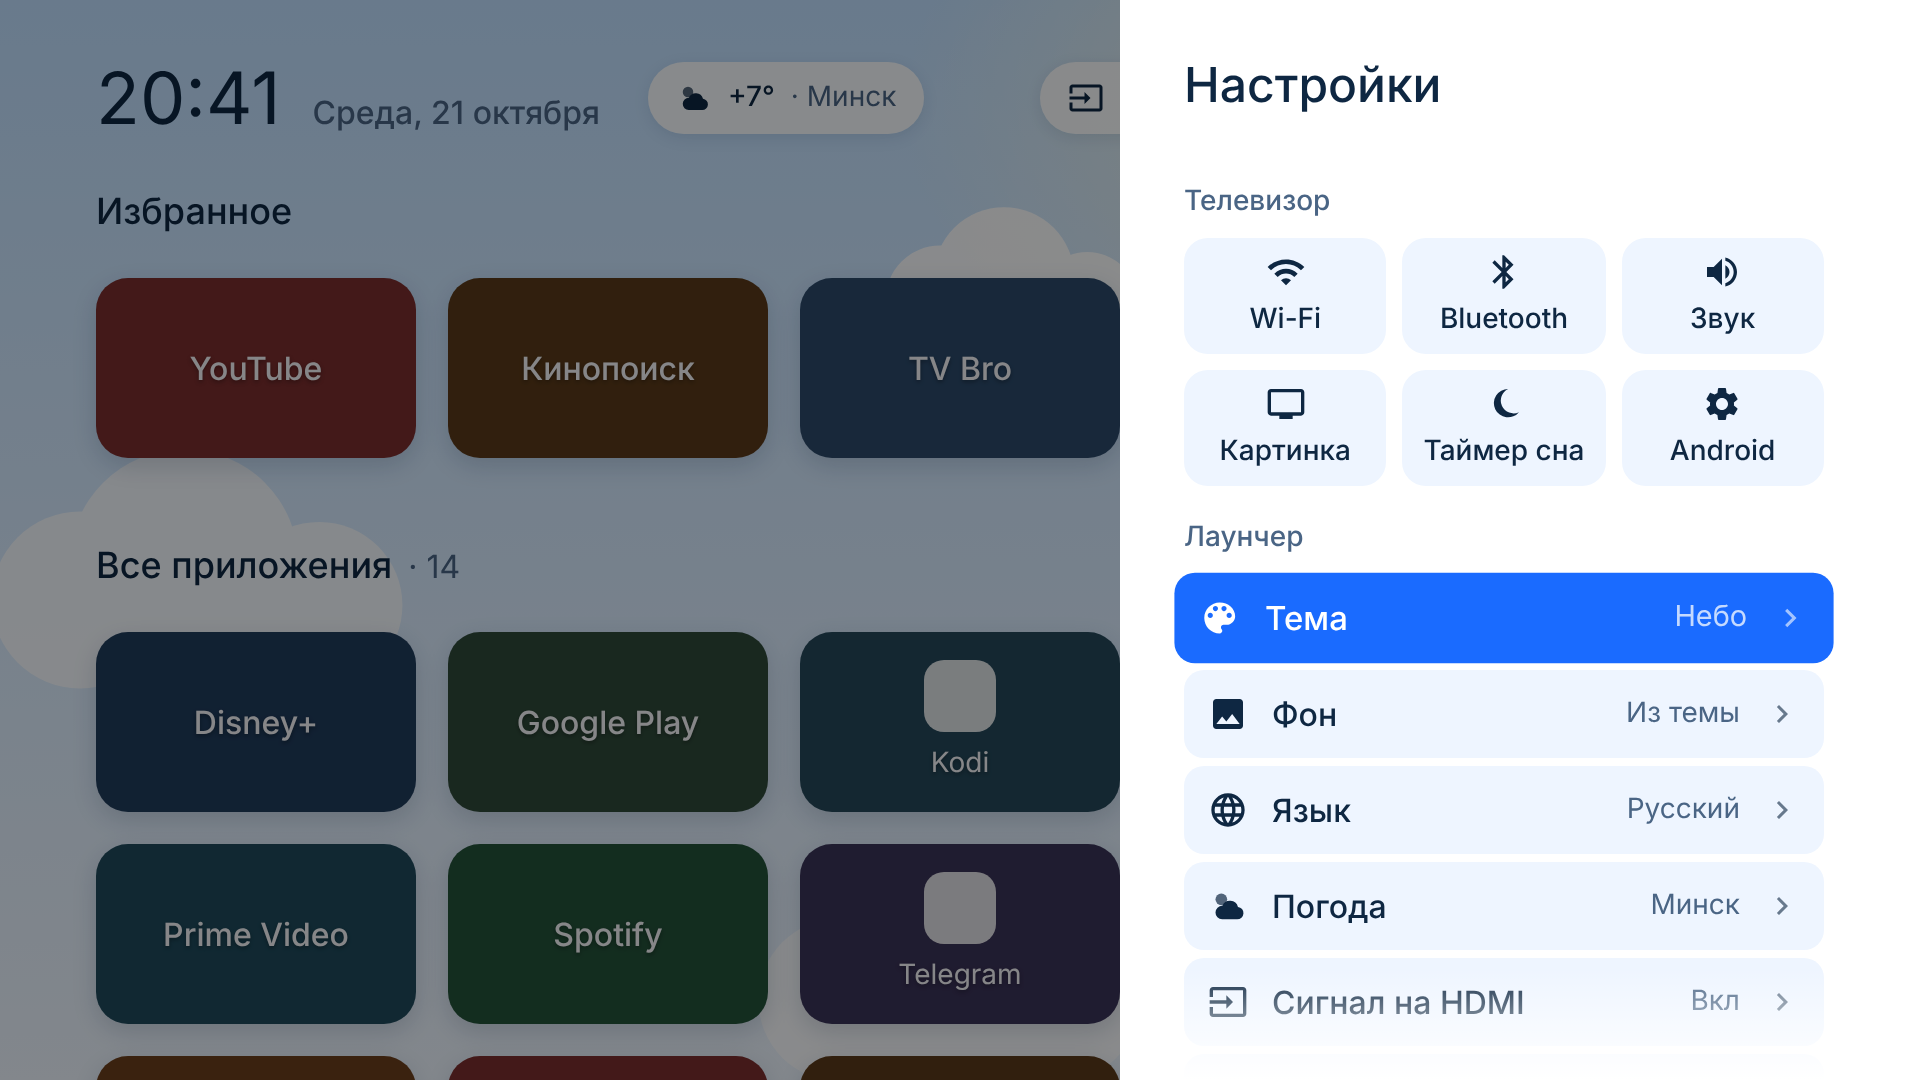
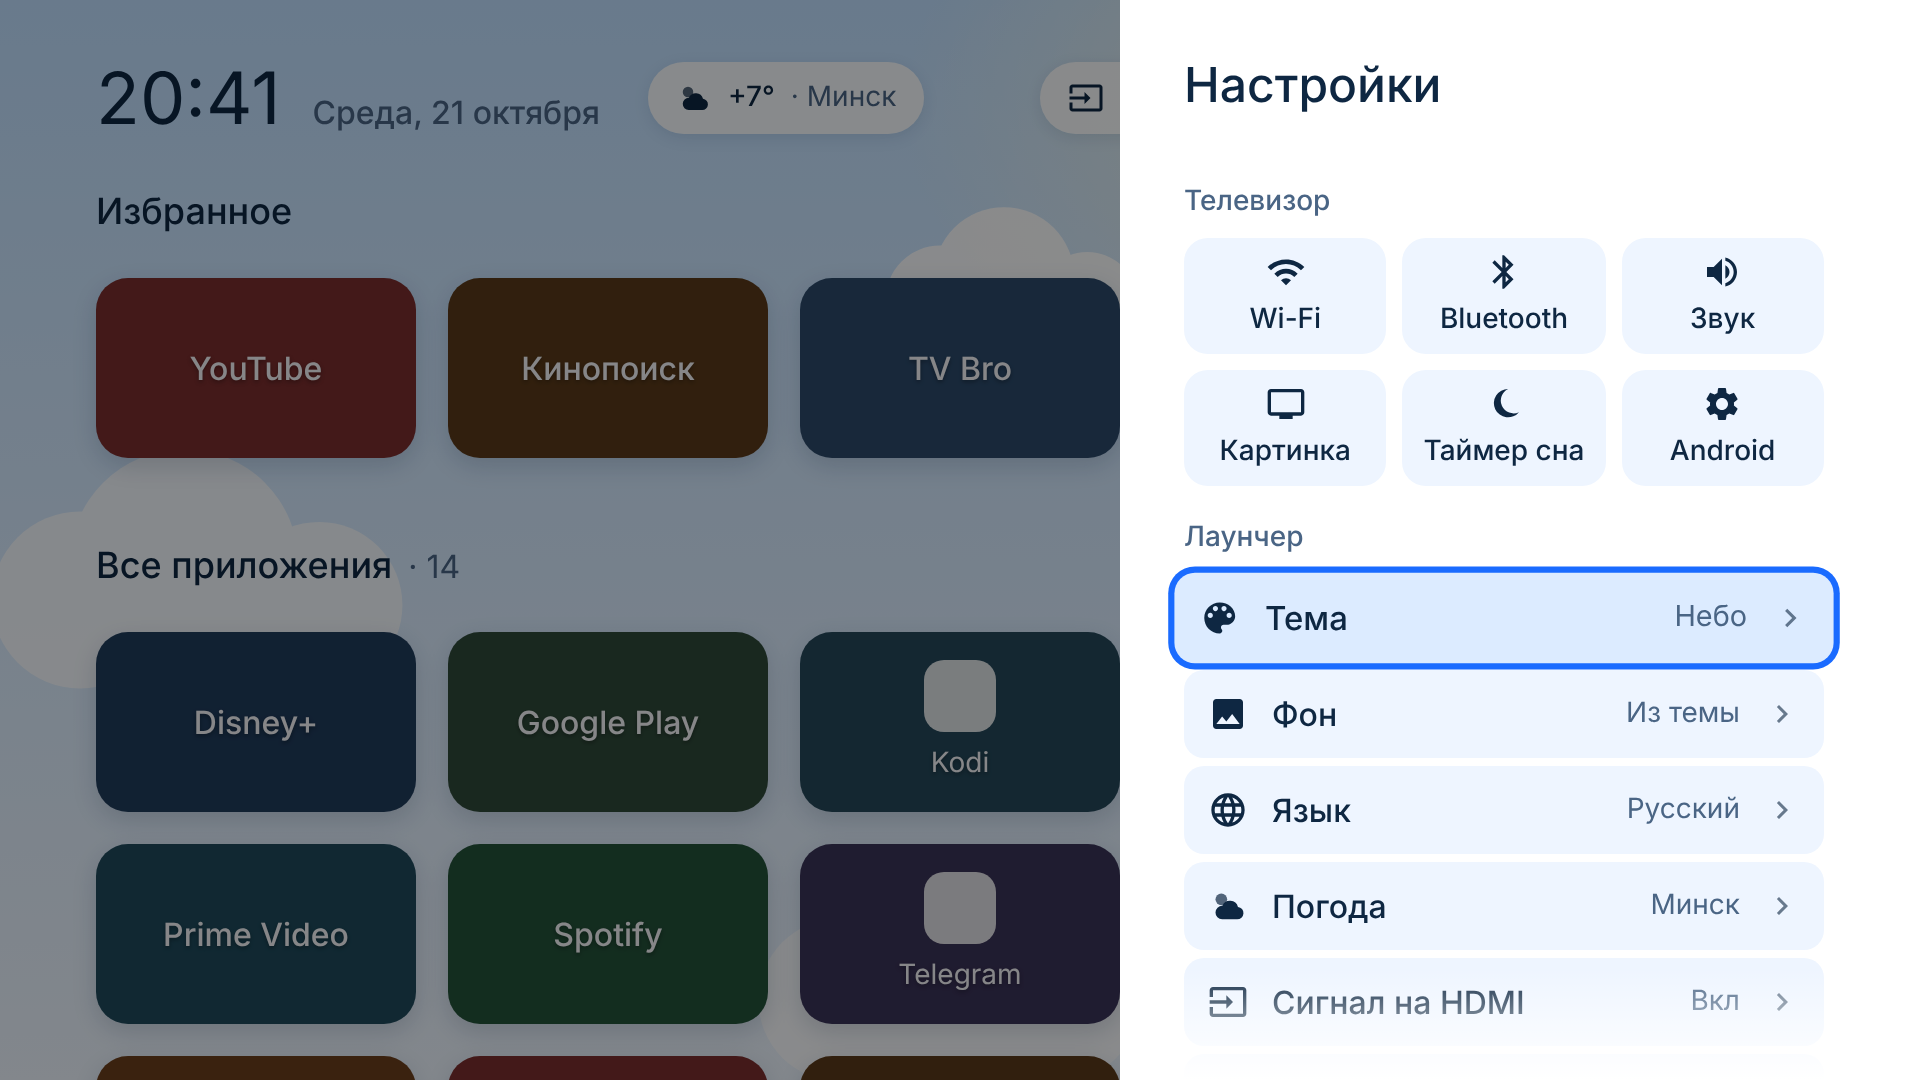
Focus panels with a ring, label Belarusian as "Беларуская", default to English
- Panel list items and tiles now show focus as a ring in the theme's focus
  colour over a slightly lighter fill, instead of a full white fill
- Language list: "Беларуская" first; the default follows the TV language and
  falls back to English when the TV uses another language

Changed region(s): [[0.5938, 0.5194, 0.9688, 0.6417]]

diff --git a/design/mockups/themes.css b/design/mockups/themes.css
@@ -46,8 +46,8 @@
   --panel-muted: #A3A9B7;
   --panel-radius: 0px;
   --item-bg: #1E232D;
-  --item-focus-bg: #FFFFFF;
-  --item-focus-fg: #0B0D12;
+  --item-focus-ring: #FFFFFF;
+  --item-focus-fill: rgba(255, 255, 255, .14);
 }
 
 /* ---------- 2. Graphite (dark, minimal) ---------- */
@@ -69,8 +69,8 @@
   --panel-fg: #EDEDED;
   --panel-muted: #8E8E93;
   --item-bg: #1C1C20;
-  --item-focus-bg: #FFC46B;
-  --item-focus-fg: #141416;
+  --item-focus-ring: #FFC46B;
+  --item-focus-fill: #26262B;
 }
 [data-theme="graphite"] .row-title { font-size: 14px; }
 
@@ -87,6 +87,7 @@
   --panel-fg: #EEF0FF;
   --panel-muted: #AEB3D3;
   --item-bg: rgba(255, 255, 255, .07);
+  --item-focus-fill: rgba(255, 255, 255, .16);
 }
 
 /* ---------- 4. Paper (light, warm) ---------- */
@@ -105,8 +106,8 @@
   --panel-fg: #1F1D1A;
   --panel-muted: #6E685F;
   --item-bg: #EFEAE0;
-  --item-focus-bg: #1F1D1A;
-  --item-focus-fg: #FBF9F4;
+  --item-focus-ring: #1F1D1A;
+  --item-focus-fill: #E4DDCF;
 }
 
 /* ---------- 5. Sky (light, airy) ---------- */
@@ -126,8 +127,8 @@
   --panel-fg: #0E2742;
   --panel-muted: #4A6585;
   --item-bg: #EEF5FF;
-  --item-focus-bg: #1A6BFF;
-  --item-focus-fg: #FFFFFF;
+  --item-focus-ring: #1A6BFF;
+  --item-focus-fill: #DCEBFF;
 }
 
 /* ---------- 6. Sage (light, natural) ---------- */
@@ -147,8 +148,8 @@
   --panel-fg: #1D2A21;
   --panel-muted: #5A6B5E;
   --item-bg: #E6EDE3;
-  --item-focus-bg: #2F6B45;
-  --item-focus-fg: #FFFFFF;
+  --item-focus-ring: #2F6B45;
+  --item-focus-fill: #D6E3D1;
 }
 
 /* ---------- Cartoon family: rounded font, sticker cards, playful focus ---------- */
@@ -180,14 +181,14 @@
   --panel-fg: #FFFFFF;
   --panel-muted: #CFC6FF;
   --item-bg: rgba(255, 255, 255, .09);
-  --item-focus-bg: #FFE14D;
-  --item-focus-fg: #2B1A63;
+  --item-focus-ring: #FFE14D;
+  --item-focus-fill: rgba(255, 255, 255, .16);
   --panel-bg: #FFFFFF;
   --panel-fg: #23324A;
   --panel-muted: #5B6B82;
   --panel-radius: 24px;
   --item-bg: #F1F5FA;
-  --item-focus-fg: #23324A;
+  --item-focus-fill: #FFF6C2;
 }
 [data-theme="valley"] .card span, [data-theme="ocean"] .card span, [data-theme="space"] .card span { font-weight: 800; }
 
@@ -199,7 +200,7 @@
   --focus: #FFD400;
   --focus-glow: 0 8px 0 rgba(0, 0, 0, .18);
   --signal: #2DBE4E;
-  --item-focus-bg: #FFD400;
+  --item-focus-ring: #FFD400;
 }
 
 /* ---------- 8. Underwater (cartoon) ---------- */
@@ -210,8 +211,8 @@
   --focus: #FF7A59;
   --focus-glow: 0 8px 0 rgba(0, 0, 0, .18);
   --signal: #20C07A;
-  --item-focus-bg: #FF7A59;
-  --item-focus-fg: #FFFFFF;
+  --item-focus-ring: #FF7A59;
+  --item-focus-fill: #FFE6DE;
 }
 
 /* ---------- 9. Space (cartoon, evening-friendly) ---------- */

diff --git a/design/mockups/settings-language.html b/design/mockups/settings-language.html
@@ -16,13 +16,14 @@
   <aside class="sheet">
     <h1>Язык</h1>
     <div class="list">
-      <div class="item focused"><span class="title title-medium">Беларуская мова</span></div>
-      <div class="item"><span class="title title-medium">Русский</span><svg class="check"><use href="#check"/></svg></div>
+      <div class="item"><span class="title title-medium">Беларуская</span></div>
+      <div class="item"><span class="title title-medium">Русский</span></div>
       <div class="item"><span class="title title-medium">English</span></div>
       <div class="item"><span class="title title-medium">Polski</span></div>
       <div class="item"><span class="title title-medium">Deutsch</span></div>
       <div class="item"><span class="title title-medium">Français</span></div>
-      <div class="item"><span class="title title-medium">Как на телевизоре</span><span class="value body-medium">Русский</span></div>
+      <!-- Default: the TV's language if it is one of the six, otherwise English. Opens focused on the saved choice. -->
+      <div class="item focused"><span class="title title-medium">Как на телевизоре</span><span class="value body-medium">Русский</span><svg class="check"><use href="#check"/></svg></div>
     </div>
   </aside>
 </body>

diff --git a/design/mockups/settings.css b/design/mockups/settings.css
@@ -33,13 +33,12 @@ svg { width: 20px; height: 20px; fill: currentColor; flex: none; }
 }
 .item .title { flex: 1; white-space: nowrap; }
 .item .value { color: var(--panel-muted); white-space: nowrap; }
+/* Focus = ring in the theme's focus colour + a slightly lighter fill, like the app cards. */
 .item.focused, .tile.focused {
-  background: var(--item-focus-bg); color: var(--item-focus-fg); transform: scale(1.03);
+  background: var(--item-focus-fill); box-shadow: 0 0 0 3px var(--item-focus-ring); transform: scale(1.03);
 }
-.item.focused .value { color: inherit; opacity: .75; }
 .chevron { width: 18px; height: 18px; opacity: .6; }
 .check { color: var(--signal); }
-.item.focused .check { color: inherit; }
 
 /* The list keeps going below the screen edge: fade the cut-off part. */
 .fade::after {

diff --git a/design/mockups/settings/languages.html b/design/mockups/settings/languages.html
@@ -15,7 +15,7 @@
 </head>
 <body>
   <script>
-    const LANGS = [['be', 'Беларуская мова'], ['ru', 'Русский'], ['en', 'English'], ['pl', 'Polski'], ['de', 'Deutsch'], ['fr', 'Français']];
+    const LANGS = [['be', 'Беларуская'], ['ru', 'Русский'], ['en', 'English'], ['pl', 'Polski'], ['de', 'Deutsch'], ['fr', 'Français']];
     for (const [code, name] of LANGS) {
       document.write(`<div class="cell"><iframe src="../home.html?nofocus&lang=${code}" title="${code}"></iframe><span class="label-large">${name}</span></div>`);
     }

diff --git a/design/mockups/settings-theme.html b/design/mockups/settings-theme.html
@@ -23,7 +23,7 @@
       display: grid; place-items: center; background: var(--signal); color: #0B0D12;
     }
     .theme .badge svg { width: 16px; height: 16px; }
-    .theme.focused { box-shadow: 0 0 0 3px var(--item-focus-bg); transform: scale(1.06); z-index: 1; }
+    .theme.focused { box-shadow: 0 0 0 3px var(--item-focus-ring); transform: scale(1.06); z-index: 1; }
     .bottom { margin-top: 12px; }
   </style>
 </head>

diff --git a/.claude/skills/android-tv-launcher/references/settings-themes-i18n.md b/.claude/skills/android-tv-launcher/references/settings-themes-i18n.md
@@ -55,10 +55,13 @@ data class ThemeSpec(
 ## Languages
 
 The launcher's own language, independent of the TV's. The list order is the owner's:
-**Беларуская мова** (always first), Русский, English, Polski, Deutsch, Français, then
-"follow the TV" (the default selection, listed last). Show each language by its native name.
-Belarusian is written out in full as "Беларуская мова": in Belarusian, "мова" (language) is
-feminine, hence the "-ая" ending. The Russian name "Белорусский" is never used for it.
+**Беларуская** (always first), Русский, English, Polski, Deutsch, Français, then
+"Как на телевизоре" (follow the TV) last. Show each language by its native name.
+
+**Default: follow the TV.** Android always knows the system language
+(`Resources.getSystem().configuration.locales`). If it is one of the six, use it. Otherwise use
+English, which falls out of resource resolution when `values/` holds the English strings.
+The picker opens focused on the saved choice.
 
 - Resources: `values/` (English, the fallback), plus `values-ru`, `values-pl`, `values-de`,
   `values-fr` and `values-be`. Declare them in `res/xml/locales_config.xml` and point

diff --git a/docs/requirements.md b/docs/requirements.md
@@ -182,10 +182,12 @@ help with mirroring an iPhone screen.
 
 ## 13. Languages ✅
 
-- The launcher's own language, in this order (the owner's request): **Беларуская мова** first,
-  then Русский, English, Polski, Deutsch, Français, and "follow the TV" last. "Follow the TV" is
-  still the default selection. Each language is shown by its native name, so Belarusian is written
-  in Belarusian.
+- The launcher's own language, in this order (the owner's request): **Беларуская** first, then
+  Русский, English, Polski, Deutsch, Français, and "Как на телевизоре" last. Each language is shown
+  by its native name.
+- **Default: the TV's language** ("Как на телевизоре"). If the TV's language is not one of the six,
+  the launcher uses **English**. Android always reports the system language, so no extra
+  permission is needed.
 - Everything the launcher shows switches: titles, dates, weather texts and city names. App names
   come from the apps themselves.
 - Translations are written in-house; the owner checks them, especially Belarusian.

diff --git a/.claude/skills/tv-ui-design/SKILL.md b/.claude/skills/tv-ui-design/SKILL.md
@@ -83,6 +83,8 @@ Starting tokens, placeholders until the owner picks a style:
 - Optionally dim unfocused content slightly (alpha 0.85). Never change layout on focus,
   because that causes reflow.
 - Pressed state: shrink back a little (about ×1.0) while OK is held.
+- List items and tiles in panels: a 3 dp ring in the theme's focus colour, a slightly lighter
+  fill and ×1.03. No full white fill: the owner found white rows odd. Buttons may still fill.
 
 ## Navigation model
 
